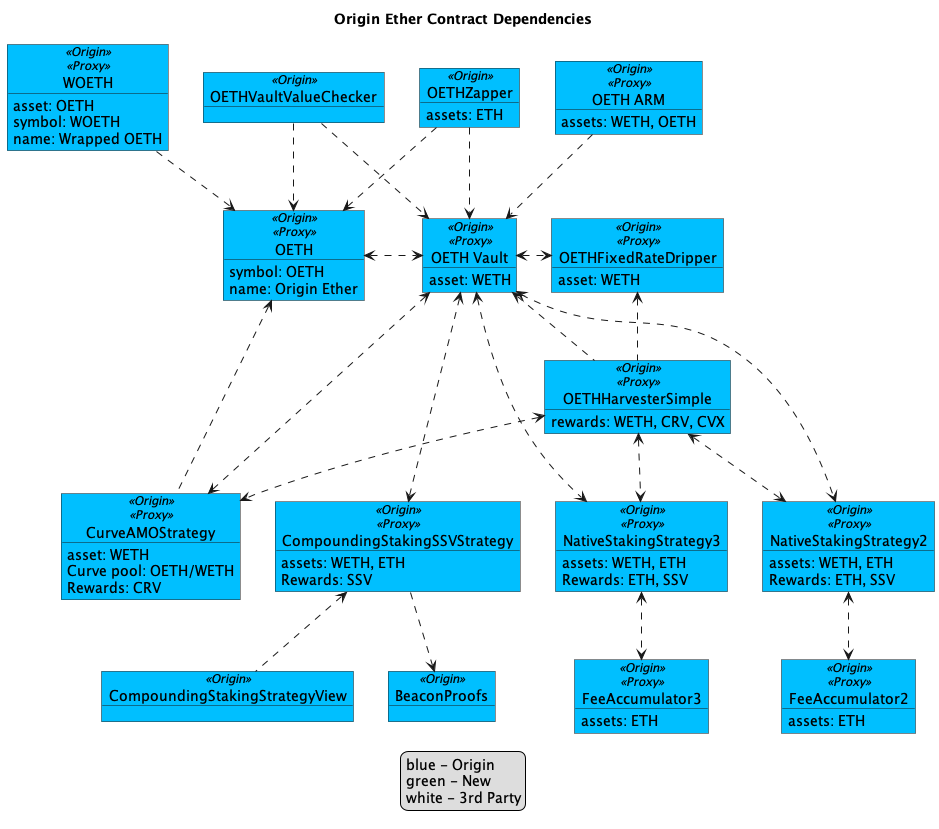
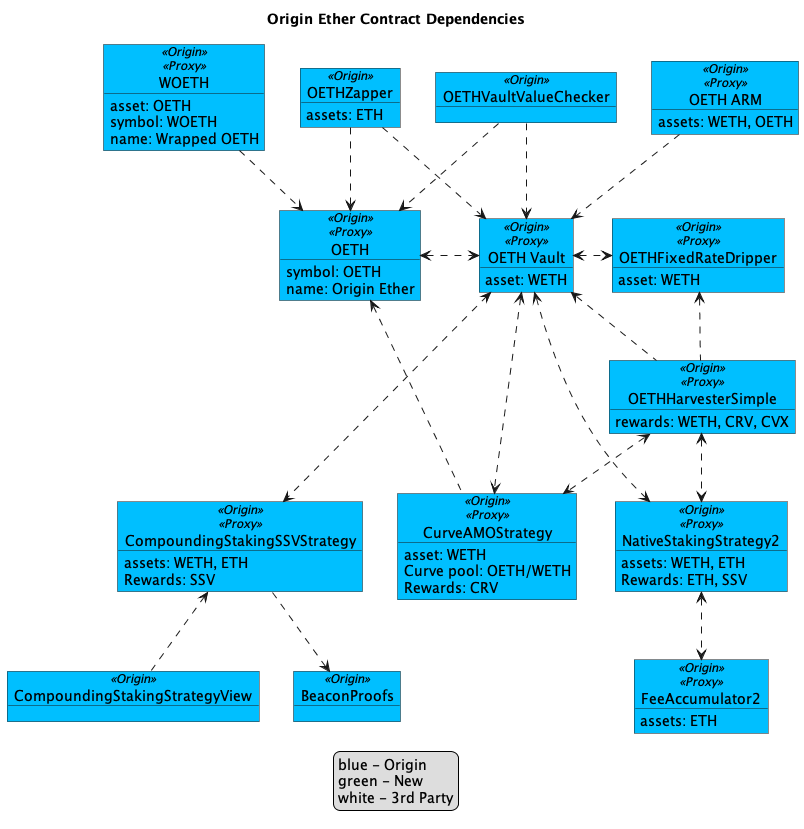
Remove 3rd native staking strategy from OETH Vault (#2866)
* Deploy script to remove the 3rd native staking strategy from the OETH Vault

* Remove 3rd native staking strategy from Defender Actions doAccounting and harvest

* Removed 3rd native staking strategy from OETH contract diagram

* Removed old validator registration and staking using P2P

diff --git a/contracts/deploy/mainnet/188_remove_3rd_native_staking_strategy.js b/contracts/deploy/mainnet/188_remove_3rd_native_staking_strategy.js
@@ -1,0 +1,36 @@
+const { deploymentWithGovernanceProposal } = require("../../utils/deploy");
+
+module.exports = deploymentWithGovernanceProposal(
+  {
+    deployName: "188_remove_3rd_native_staking_strategy",
+    forceDeploy: false,
+    // forceSkip: true,
+    reduceQueueTime: true,
+    deployerIsProposer: false,
+    proposalId: "",
+  },
+  async () => {
+    // Current OETH Vault contracts
+    const cVaultProxy = await ethers.getContract("OETHVaultProxy");
+    const cVaultAdmin = await ethers.getContractAt(
+      "IVault",
+      cVaultProxy.address
+    );
+    const cStrategyProxy = await ethers.getContract(
+      "NativeStakingSSVStrategy3Proxy"
+    );
+
+    // Governance Actions
+    // ----------------
+    return {
+      name: "Remove the 3rd Native Staking Strategy from the OETH Vault",
+      actions: [
+        {
+          contract: cVaultAdmin,
+          signature: "removeStrategy(address)",
+          args: [cStrategyProxy.address],
+        },
+      ],
+    };
+  }
+);

diff --git a/contracts/scripts/defender-actions/doAccounting.js b/contracts/scripts/defender-actions/doAccounting.js
@@ -60,12 +60,6 @@ const handler = async (event) => {
     signer,
     consolidationController
   );
-  await doAccounting(
-    "NativeStakingSSVStrategy3Proxy",
-    networkName,
-    signer,
-    consolidationController
-  );
 };
 
 const doAccounting = async (

diff --git a/contracts/scripts/defender-actions/harvest.js b/contracts/scripts/defender-actions/harvest.js
@@ -41,7 +41,7 @@ const handler = async (event) => {
   const nativeStakingStrategies = [
     // addresses[networkName].NativeStakingSSVStrategyProxy,
     addresses.mainnet.NativeStakingSSVStrategy2Proxy,
-    addresses.mainnet.NativeStakingSSVStrategy3Proxy,
+    // addresses.mainnet.NativeStakingSSVStrategy3Proxy,
   ];
 
   const strategiesToHarvest = [];